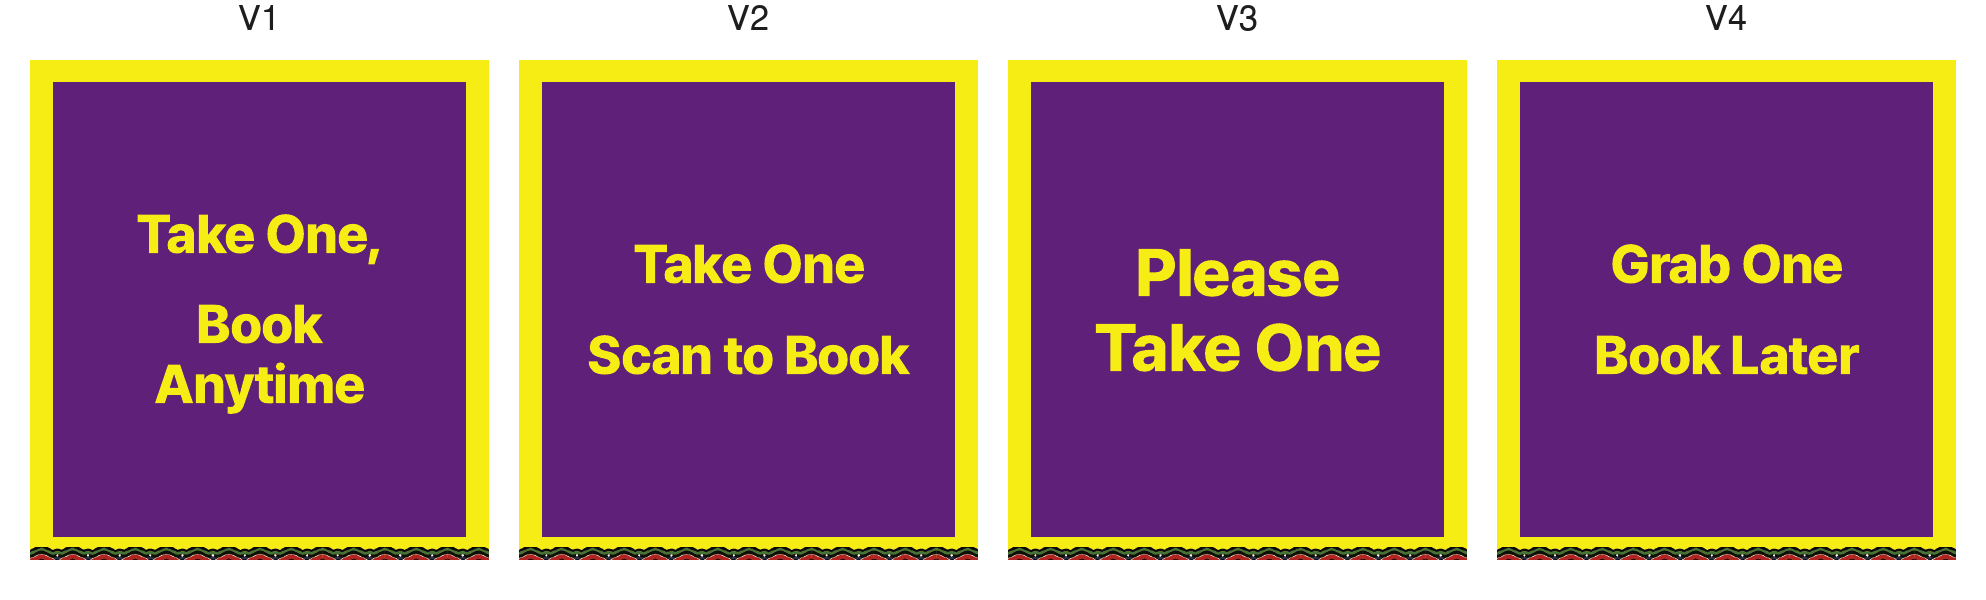
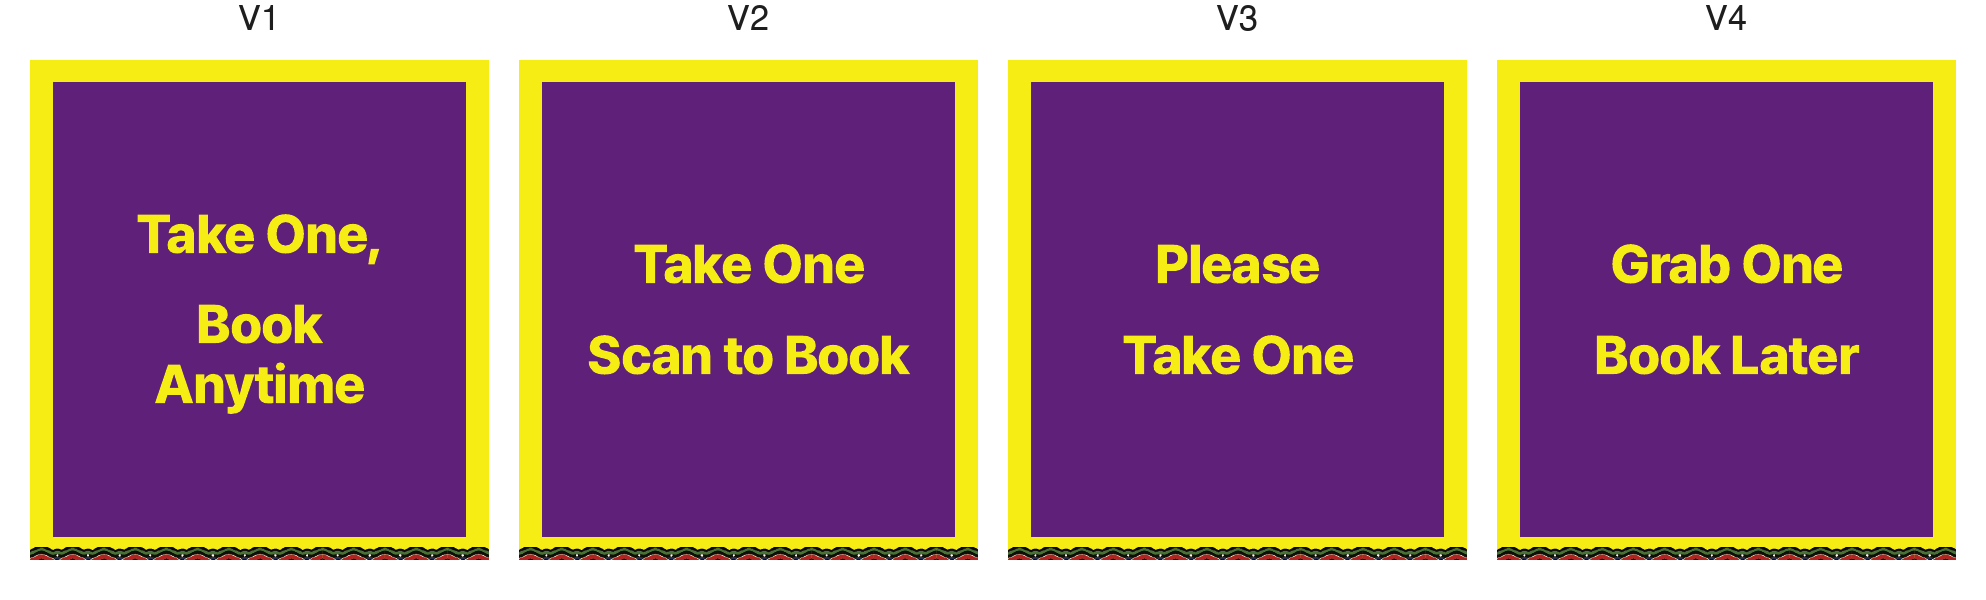
hotel-promo-card/pop: V3 at the same size and line gap as the other options

Changed region(s): [[0.5307, 0.54, 0.718, 0.63], [0.5619, 0.39, 0.6868, 0.51]]

diff --git a/hotel-promo-card/pop/mock_v3.html b/hotel-promo-card/pop/mock_v3.html
@@ -1,6 +1,6 @@
 <!doctype html>
 <html lang="en"><head><meta charset="utf-8"><title>Goodlugg Hotel POP V3</title>
-<link rel="stylesheet" href="pop.css"><style>.pocket{font-size:32pt}</style></head>
+<link rel="stylesheet" href="pop.css"><style>.pocket{font-size:26pt}</style></head>
 <body>
 <div class="page mock">
   <div class="abs border-top"></div>
@@ -8,7 +8,7 @@
   <div class="c head">Same-day Luggage Delivery<br>across Korea</div>
   <div class="c copy">to your next hotel, airport,<br>and beyond</div>
   <img class="mockcard b2" src="assets/card_front.png" alt=""><img class="mockcard b1" src="assets/card_front.png" alt=""><img class="mockcard" src="assets/card_front.png" alt="">
-  <div class="box"><div class="pocket">Please<br>Take One</div></div>
+  <div class="box"><div class="pocket"><span class="l1">Please</span><span class="l2">Take One</span></div></div>
   <div class="abs border-bottom"></div>
 </div>
 </body></html>

diff --git a/hotel-promo-card/pop/pop_v3.html b/hotel-promo-card/pop/pop_v3.html
@@ -1,6 +1,6 @@
 <!doctype html>
 <html lang="en"><head><meta charset="utf-8"><title>Goodlugg Hotel POP V3</title>
-<link rel="stylesheet" href="pop.css"><style>.pocket{font-size:32pt}</style></head>
+<link rel="stylesheet" href="pop.css"><style>.pocket{font-size:26pt}</style></head>
 <body>
 <div class="page print">
   <div class="abs border-top"></div>
@@ -8,7 +8,7 @@
   <div class="c head">Same-day Luggage Delivery<br>across Korea</div>
   <div class="c copy">to your next hotel, airport,<br>and beyond</div>
   
-  <div class="box"><div class="pocket">Please<br>Take One</div></div>
+  <div class="box"><div class="pocket"><span class="l1">Please</span><span class="l2">Take One</span></div></div>
   <div class="abs border-bottom"></div>
 </div>
 </body></html>

diff --git a/hotel-promo-card/pop/build.py b/hotel-promo-card/pop/build.py
@@ -11,7 +11,7 @@ DATE = "20261026"
 COPIES = [  # tag, copy ("|" = gap between the first line and the rest), font size (pt); longest line under 60 mm
     ("V1", "Take One,|Book<br>Anytime", 26),
     ("V2", "Take One|Scan to Book", 26),
-    ("V3", "Please<br>Take One", 32),
+    ("V3", "Please|Take One", 26),
     ("V4", "Grab One|Book Later", 26),
 ]
 MOCK = ('<img class="mockcard b2" src="assets/card_front.png" alt="">'

diff --git a/hotel-promo-card/pop/HotelPromoPOP_Spec_20261026.md b/hotel-promo-card/pop/HotelPromoPOP_Spec_20261026.md
@@ -19,7 +19,7 @@ Only the pocket copy differs between V1 to V4. Pick one.
 |---|---|
 | V1 | Take One, / Book / Anytime (26 pt, gap after the first line) |
 | V2 | Take One / Scan to Book (26 pt, gap after the first line) |
-| V3 | Please / Take One (32 pt, no gap) |
+| V3 | Please / Take One (26 pt, gap after the first line) |
 | V4 | Grab One / Book Later (26 pt, gap after the first line) |
 
 ExtraBold, yellow, centered in the box; the longest line stays under 60 mm.
@@ -35,7 +35,7 @@ ExtraBold, yellow, centered in the box; the longest line stays under 60 mm.
 
 ## 4. Type
 
-Pretendard. Headline 27 pt ExtraBold, copy 20 pt Medium, pocket copy 26 to 32 pt ExtraBold (see section 2).
+Pretendard. Headline 27 pt ExtraBold, copy 20 pt Medium, pocket copy 26 pt ExtraBold.
 
 ## 5. Layout, top to bottom (from trim top)
 
